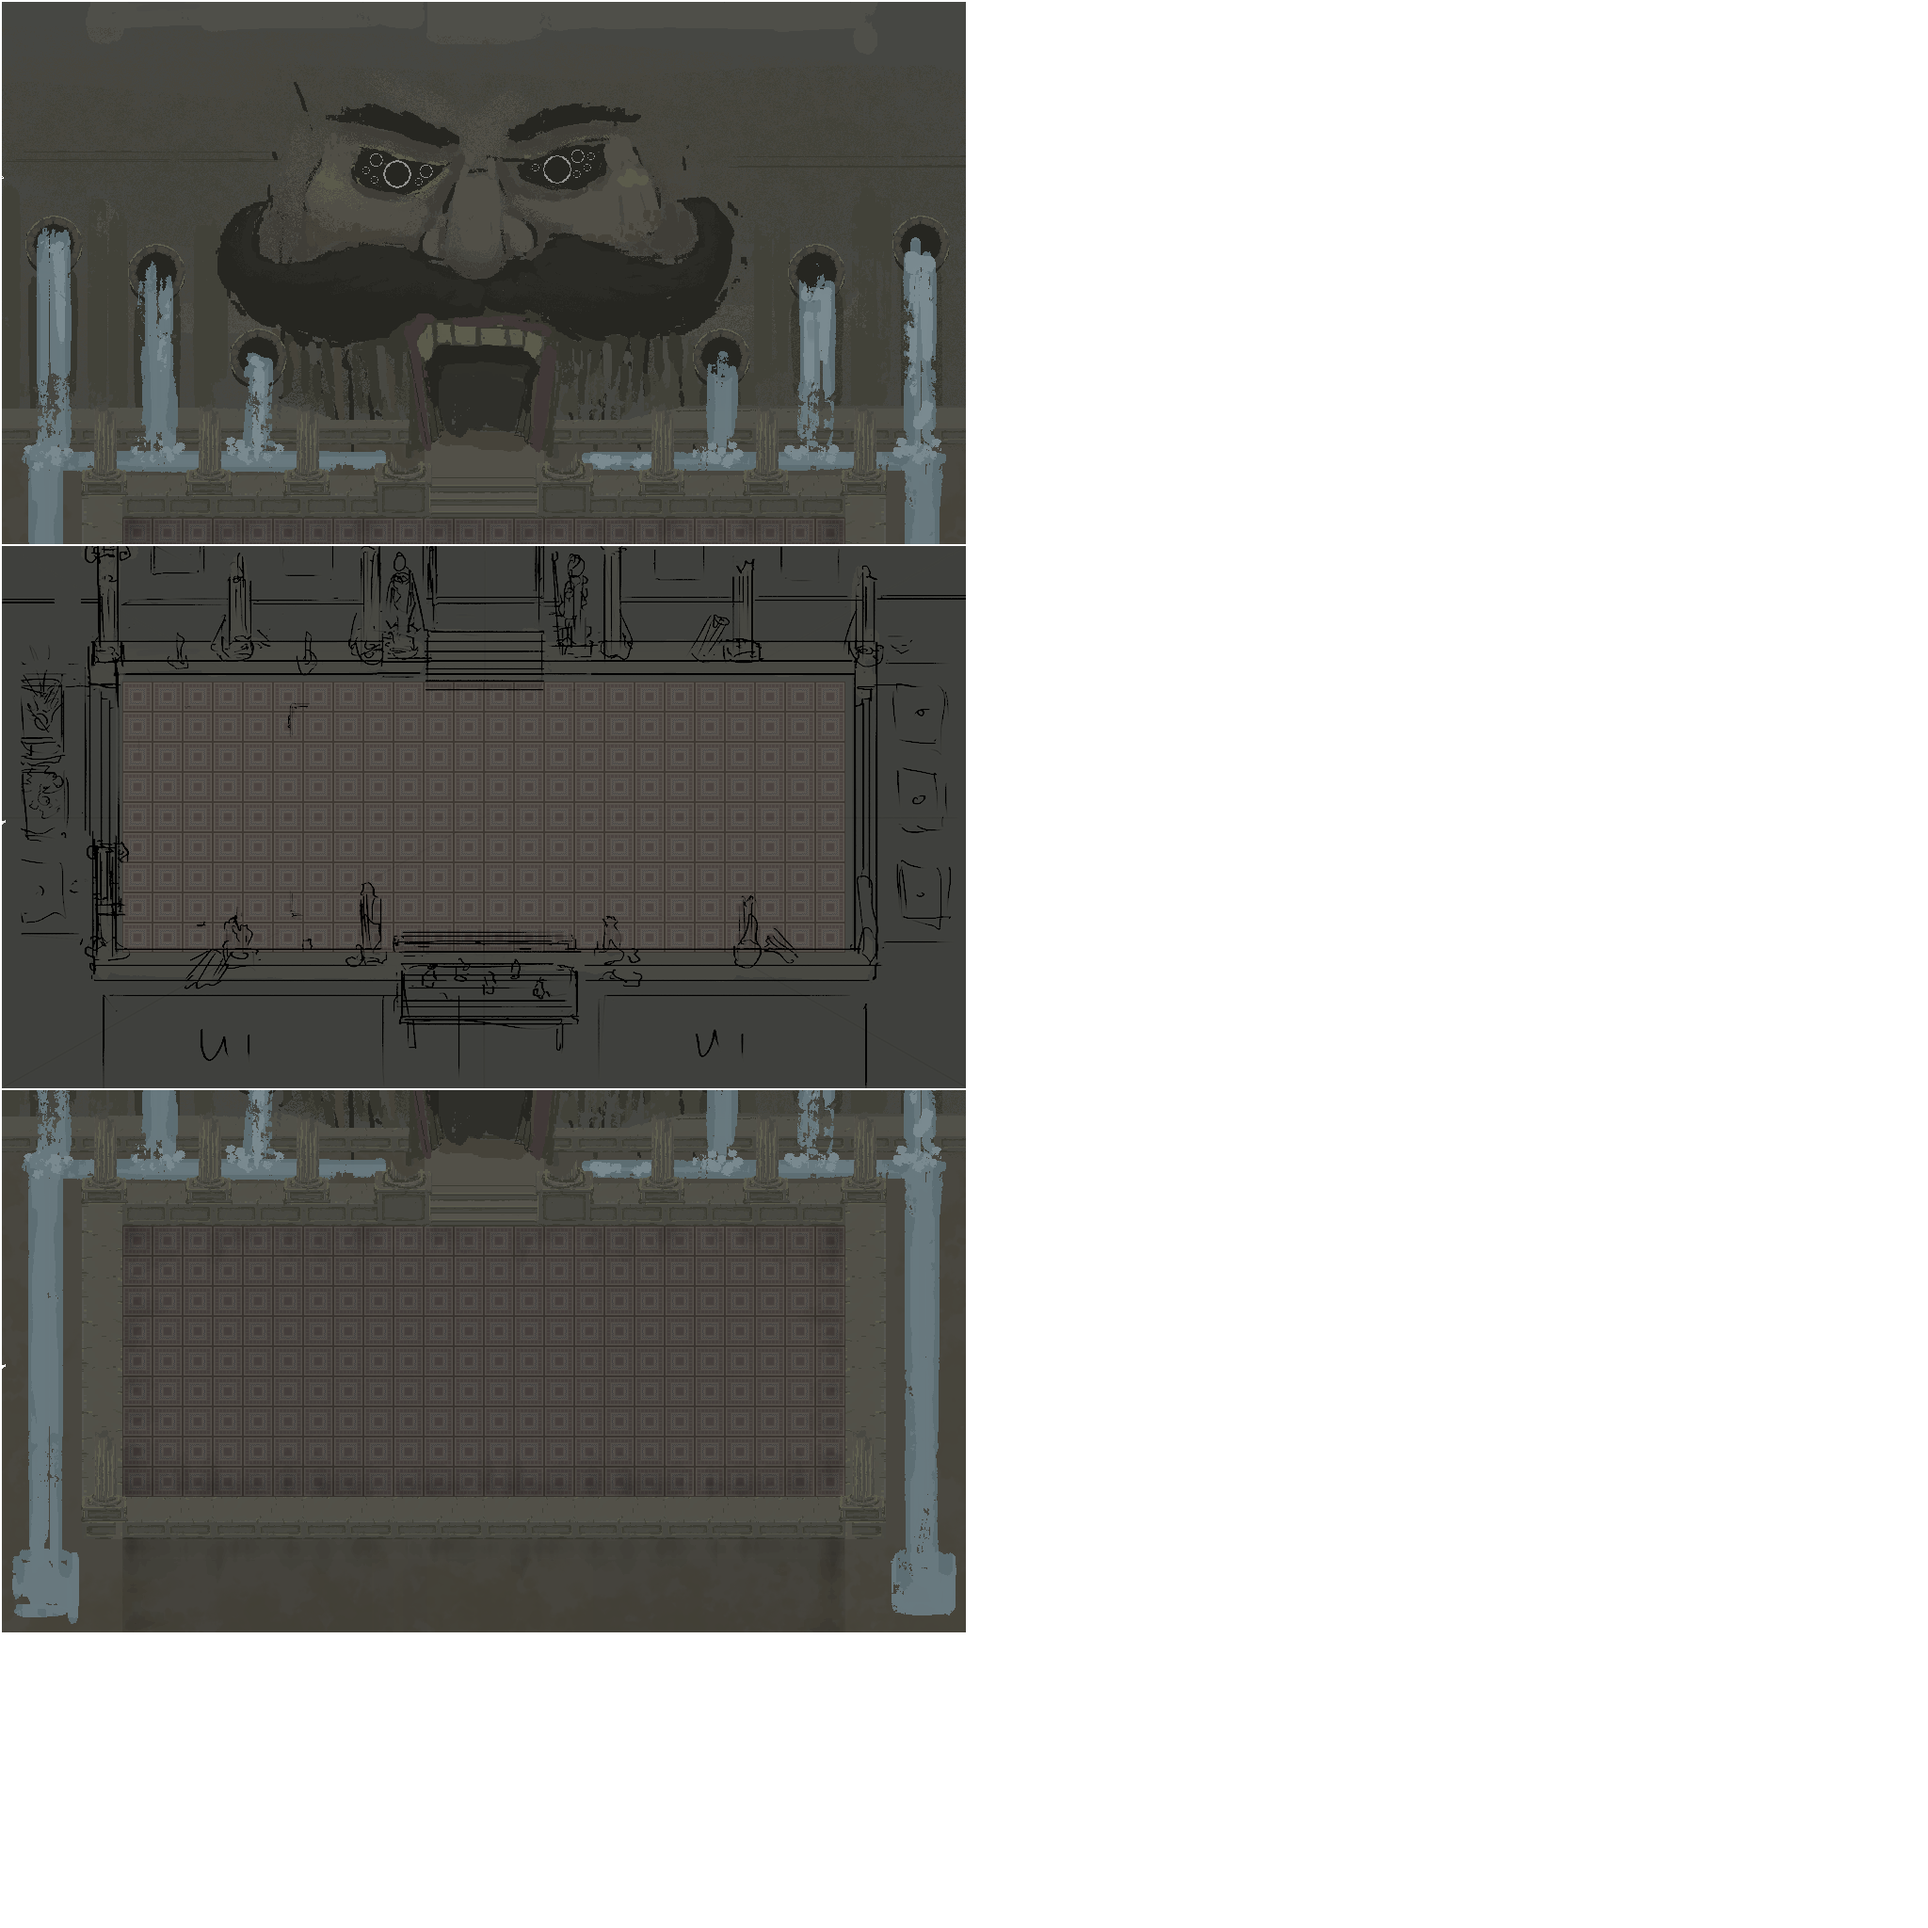
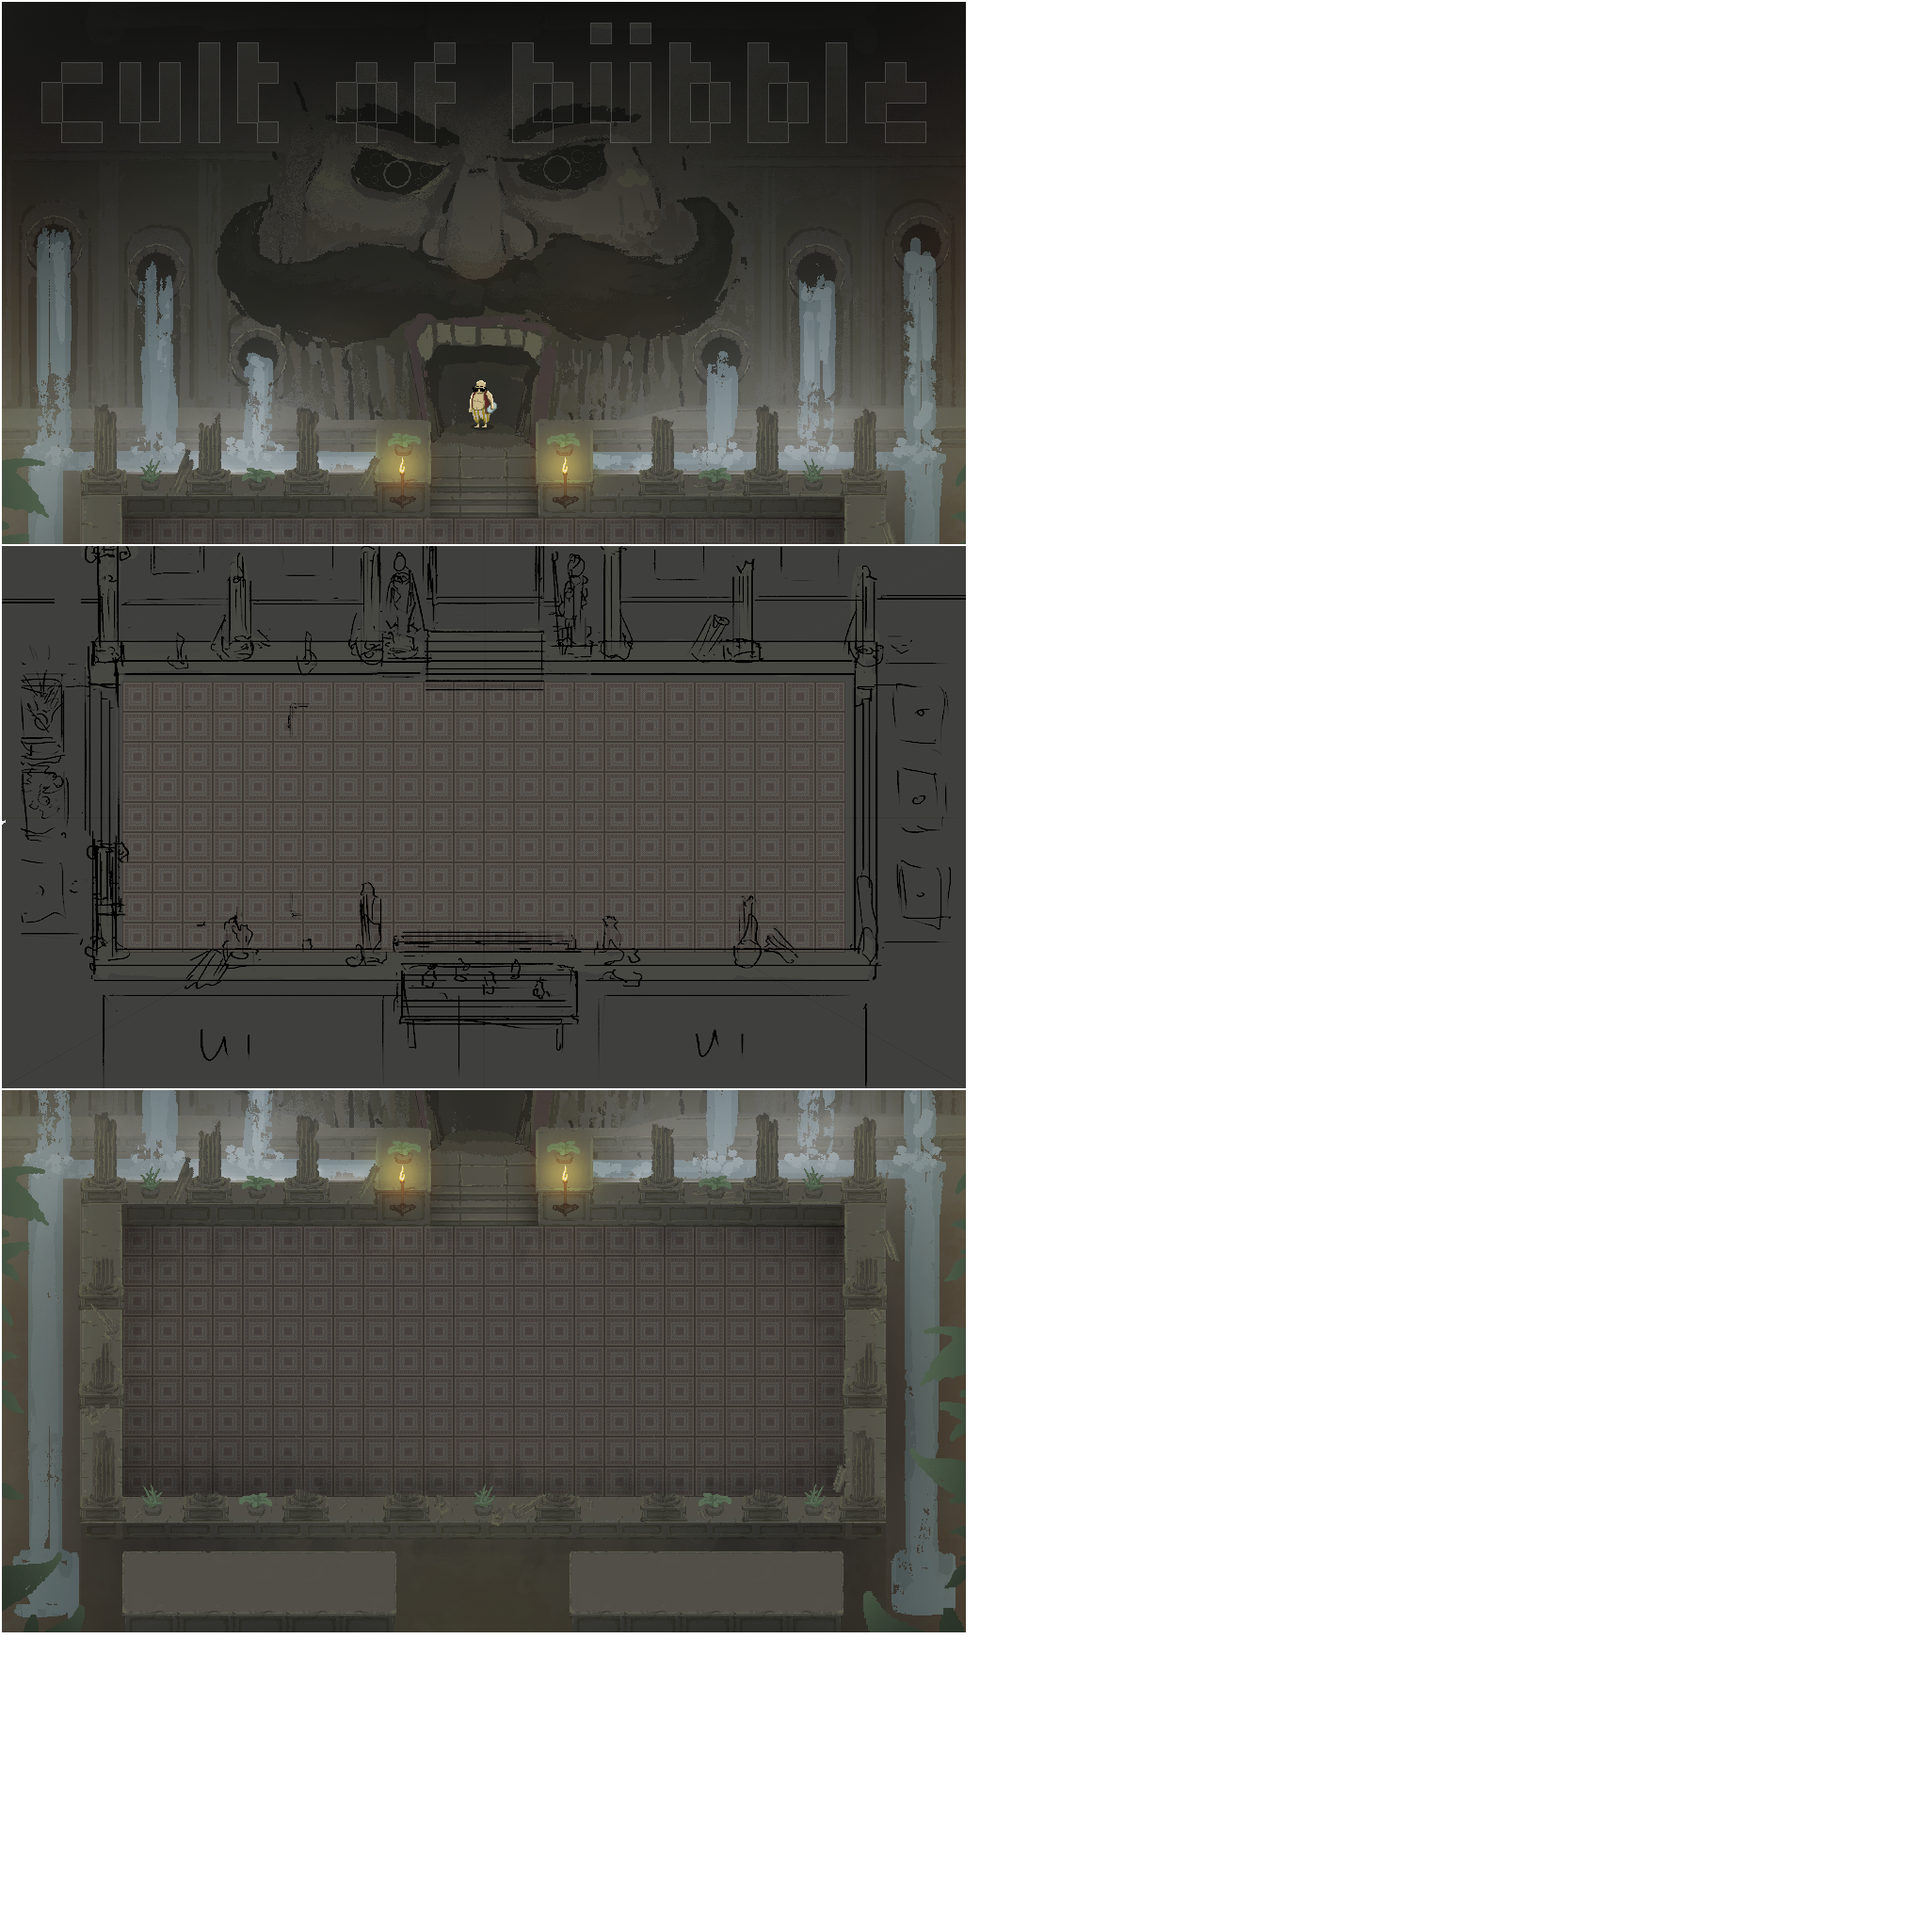
added better textures and tinkering

diff --git a/core/src/main/java/com/cultofboobles/SecondScreen.java b/core/src/main/java/com/cultofboobles/SecondScreen.java
@@ -26,18 +26,27 @@ public class SecondScreen implements Screen {
 
     private BitmapFont font;
     private SpriteBatch spriteBatch;
-    private Skin skin;
     private Sound intro;
     private Sound music;
 
     public SecondScreen(Game agame) {
         this.agame = agame;
         font = new BitmapFont(Gdx.files.internal("font/Tin5-Regular.fnt"));
-        font.setColor(0, 0, 0, 1);
+        font.setColor(1, 1, 1, 1);
     }
 
     @Override
     public void show() {
+        Main.favorDemand += (20 * Main.currentDay);
+
+        if(endOfRun()) {
+            viewStuffHandler = new ViewStuffHandler("TempleTop");
+
+        } else {
+            System.out.println("game go on");
+            viewStuffHandler = new ViewStuffHandler("TempleTop");
+        }
+
         //SoundHandler.playIntro = false; //ToDo put this out
         if (SoundHandler.playIntro) {
             intro = SoundHandler.getIntro();
@@ -50,9 +59,7 @@ public class SecondScreen implements Screen {
             music = SoundHandler.getBetweenDayMusic();
             music.loop(0.3f);
         }
-        skin = new Skin(Gdx.files.internal("ui/uiskin.json"));
         spriteBatch = new SpriteBatch();
-        viewStuffHandler = new ViewStuffHandler("TempleTop");
 
 //        stage = new Stage(new ScreenViewport());
 //        Gdx.input.setInputProcessor(stage);
@@ -79,14 +86,14 @@ public class SecondScreen implements Screen {
 
         List<ToolTypeData> uiStuffList = new LinkedList<>();
 
+        float winWidth = Gdx.graphics.getWidth();
+        float winHeight = Gdx.graphics.getHeight();
 
-        uiStuffList.add(new ToolTypeData("Day: " + Main.currentDay, 400, 500, 2, 2));
-        uiStuffList.add(new ToolTypeData("Coin balance: " + Main.ecomonics.getMoneyCount(), 200, 450));
+        uiStuffList.add(new ToolTypeData("Day: " + Main.currentDay, winWidth/2 - 80, 60, 2, 2));
+        uiStuffList.add(new ToolTypeData("Coin balance: " + Main.ecomonics.getMoneyCount(), winWidth/8, 40));
+        uiStuffList.add(new ToolTypeData("Favor balance: " + Main.ecomonics.getBubbleFavor() + " / " + Main.favorDemand, (winWidth/8)*5, 40));
 
-        uiStuffList.add(new ToolTypeData("Coin Soap: " + Main.ecomonics.getSoap() + " buy more Soap by pressing: Q", 200, 400));
-        uiStuffList.add(new ToolTypeData("shoping is not working, fix it", 200, 350));
-
-        uiStuffList.add(new ToolTypeData("Start play by pressing: N", 100, 100));
+        uiStuffList.add(new ToolTypeData("press N to start", winWidth/2 - 110, winHeight/2));
 
 
         spriteBatch.begin();
@@ -124,7 +131,6 @@ public class SecondScreen implements Screen {
     @Override
     public void hide() {
         System.out.println("hide");
-        skin.dispose();
         if(intro != null) {
             intro.stop();
         }
@@ -142,6 +148,10 @@ public class SecondScreen implements Screen {
         agame.setScreen(new FirstScreen(agame, day));
 
 
+    }
+
+    private boolean endOfRun() {
+        return Main.ecomonics.getBubbleFavor() < Main.favorDemand;
     }
 
 }

diff --git a/core/src/main/java/com/cultofboobles/FirstScreen.java b/core/src/main/java/com/cultofboobles/FirstScreen.java
@@ -59,7 +59,7 @@ public class FirstScreen implements Screen {
         this.agame = agame;
         this.day = day;
 
-        font = new BitmapFont();
+        font = new BitmapFont(Gdx.files.internal("font/Tin5-Regular.fnt"));
     }
 
     @Override
@@ -303,19 +303,22 @@ public class FirstScreen implements Screen {
             v.getSprite().draw(spriteBatch);
 
             v.getToolType().ifPresent(
-                toolTypeData -> font.draw(
-                    spriteBatch, toolTypeData.msg,
-                    toolTypeData.x,
-                    toolTypeData.y
-                )
+                toolTypeData -> {
+                    font.getData().setScale(toolTypeData.scaleX, toolTypeData.scaleY);
+                    font.draw(
+                        spriteBatch, toolTypeData.msg,
+                        toolTypeData.x,
+                        toolTypeData.y);
+                }
+
             );
 
-            if(v instanceof Customer) {
+            if (v instanceof Customer) {
                 Customer customer = (Customer) v;
 
                 Sprite a = customer.getMoodIcon();
 
-                if(a != null) {
+                if (a != null) {
 
                     a.draw(spriteBatch);
 
@@ -329,15 +332,19 @@ public class FirstScreen implements Screen {
 
         obstacleMap.values()
             .forEach(v -> {
-                if(v.getOverLay().isPresent()) {
+                if (v.getOverLay().isPresent()) {
                     v.getOverLay().get().draw(spriteBatch);
                 }
             });
-            //.forEach(v -> v.getOverLay().ifPresent(s -> s.draw(spriteBatch)));
+        //.forEach(v -> v.getOverLay().ifPresent(s -> s.draw(spriteBatch)));
 
-        font.draw(spriteBatch, "day time left: " + dayTimeLeft, 100, 80);
-        font.draw(spriteBatch, "today order: " + day.orderForDay, 100, 100);
-        font.draw(spriteBatch, "Day: " + day.count, 100, 120);
+
+        float winWidth = Gdx.graphics.getWidth();
+        float winHeight = Gdx.graphics.getHeight();
+
+        font.draw(spriteBatch, "day time left: " + dayTimeLeft, winWidth / 7, 60);
+        font.draw(spriteBatch, "Day: " + day.count, (winWidth / 2) - 30, 60);
+        font.draw(spriteBatch, "Favor : " + Main.ecomonics.getBubbleFavor() + " / " + Main.favorDemand, (winWidth / 7) * 4 + 40, 60);
 
         spriteBatch.end();
     }
@@ -361,7 +368,7 @@ public class FirstScreen implements Screen {
                     // ToDo add type check
                     //entity.interactBed((Bed) obstacle);
                     obstacle.interact(entity);
-                    if(obstacle instanceof Bed && entity instanceof Player) {
+                    if (obstacle instanceof Bed && entity instanceof Player) {
                         Player a = (Player) entity;
                         a.setToolType(Player.toolTypeEnum.Clean);
                     }

diff --git a/core/src/main/java/com/cultofboobles/entity/Player.java b/core/src/main/java/com/cultofboobles/entity/Player.java
@@ -141,7 +141,7 @@ public class Player implements Entity {
     @Override
     public Optional<ToolTypeData> getToolType() {
         if(toolType.equals(toolTypeEnum.Clean)) {
-             return Optional.of(new ToolTypeData("E / Q", this.x - 5, this.y + getHitBox().height - 10));
+             return Optional.of(new ToolTypeData("E / Q", this.x - 20, this.y + getHitBox().height - 10, 0.75f, 0.75f));
         }
         return Optional.empty();
     }

diff --git a/core/src/main/java/com/cultofboobles/utils/Ecomonics.java b/core/src/main/java/com/cultofboobles/utils/Ecomonics.java
@@ -6,6 +6,8 @@ public class Ecomonics {
 
     private int soap = 10;
 
+    private int bubbleFavor = 10;
+
     public Ecomonics() {
 
     }
@@ -34,6 +36,14 @@ public class Ecomonics {
             this.soap += amount;
             return true;
         }
+    }
+
+    public int getBubbleFavor() {
+        return this.bubbleFavor;
+    }
+
+    public void addBubbleFavor(int amount) {
+        this.bubbleFavor += amount;
     }
 
 }

diff --git a/core/src/main/java/com/cultofboobles/entity/Customer.java b/core/src/main/java/com/cultofboobles/entity/Customer.java
@@ -239,6 +239,7 @@ public class Customer implements Entity {
         if(sacrificeProgress == -1) {
             Sound sacrificePop = SoundHandler.getSacrificePop();
             sacrificePop.play();
+            Main.ecomonics.addBubbleFavor(10);
         }
         if (sacrificeProgress < 4) {
             sacrificeProgress += 0.05f;

diff --git a/core/src/main/java/com/cultofboobles/Main.java b/core/src/main/java/com/cultofboobles/Main.java
@@ -14,6 +14,7 @@ public class Main extends Game {
     public static float timeElapsed = 0;
     public static int currentDay = 0;
     public static AtlasHandler atlasHandler;
+    public static int favorDemand = 10;
 
     public static Ecomonics ecomonics;
 

diff --git a/core/src/main/java/com/cultofboobles/utils/day/Day.java b/core/src/main/java/com/cultofboobles/utils/day/Day.java
@@ -2,7 +2,7 @@ package com.cultofboobles.utils.day;
 
 public class Day {
 
-    public int duration = 50;
+    public int duration = 5;
 
     public int customerMaxCount;
 
